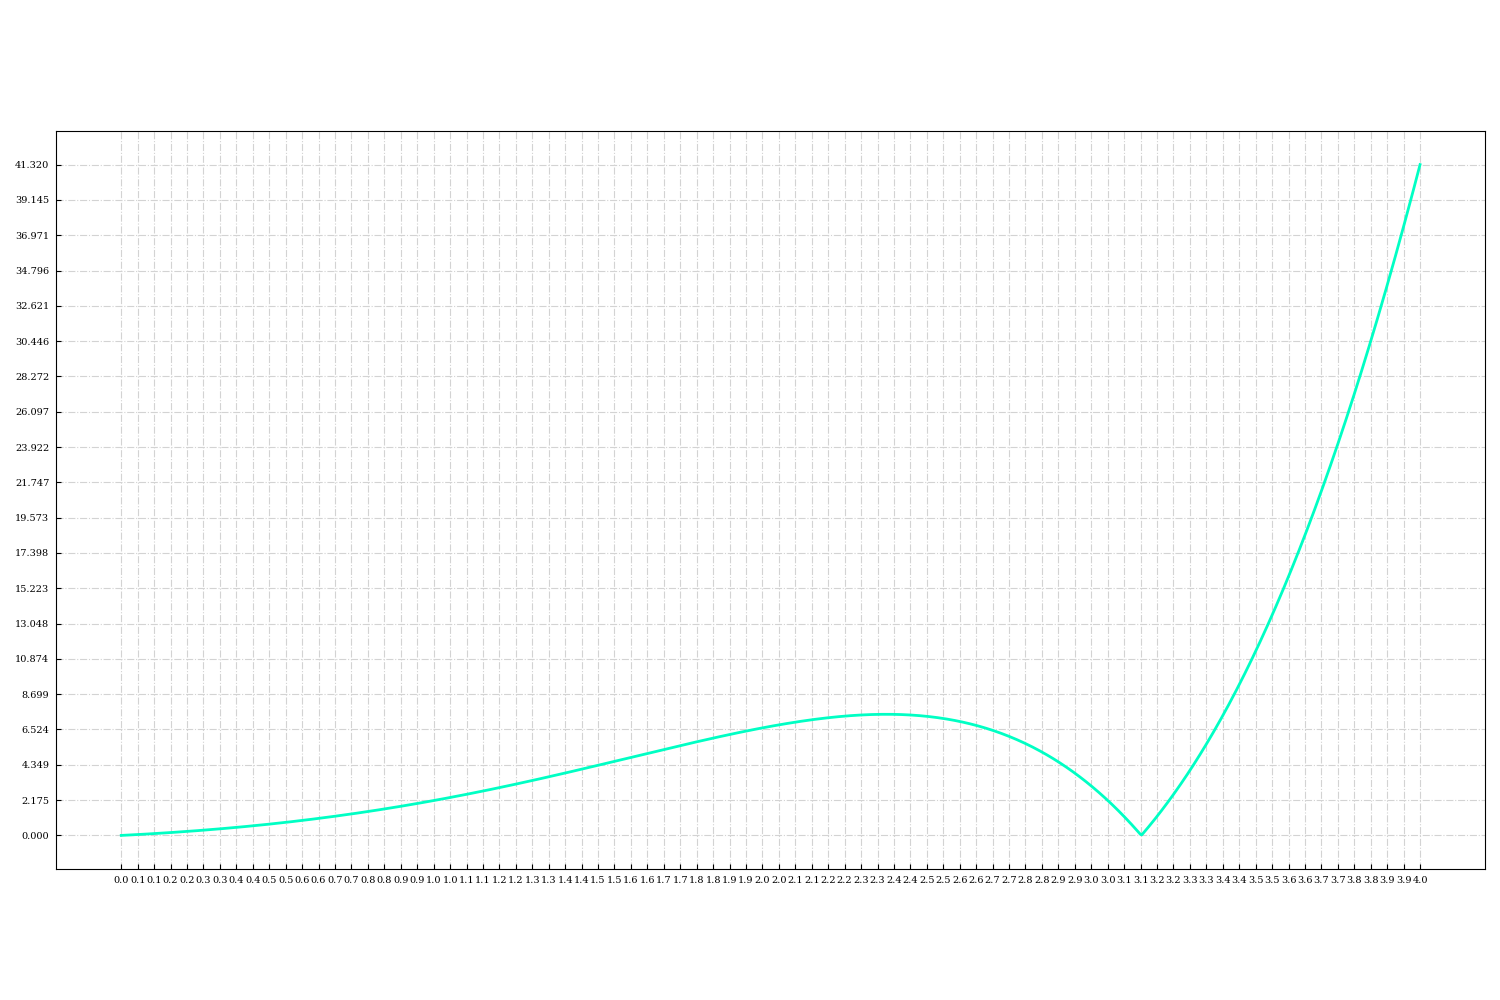
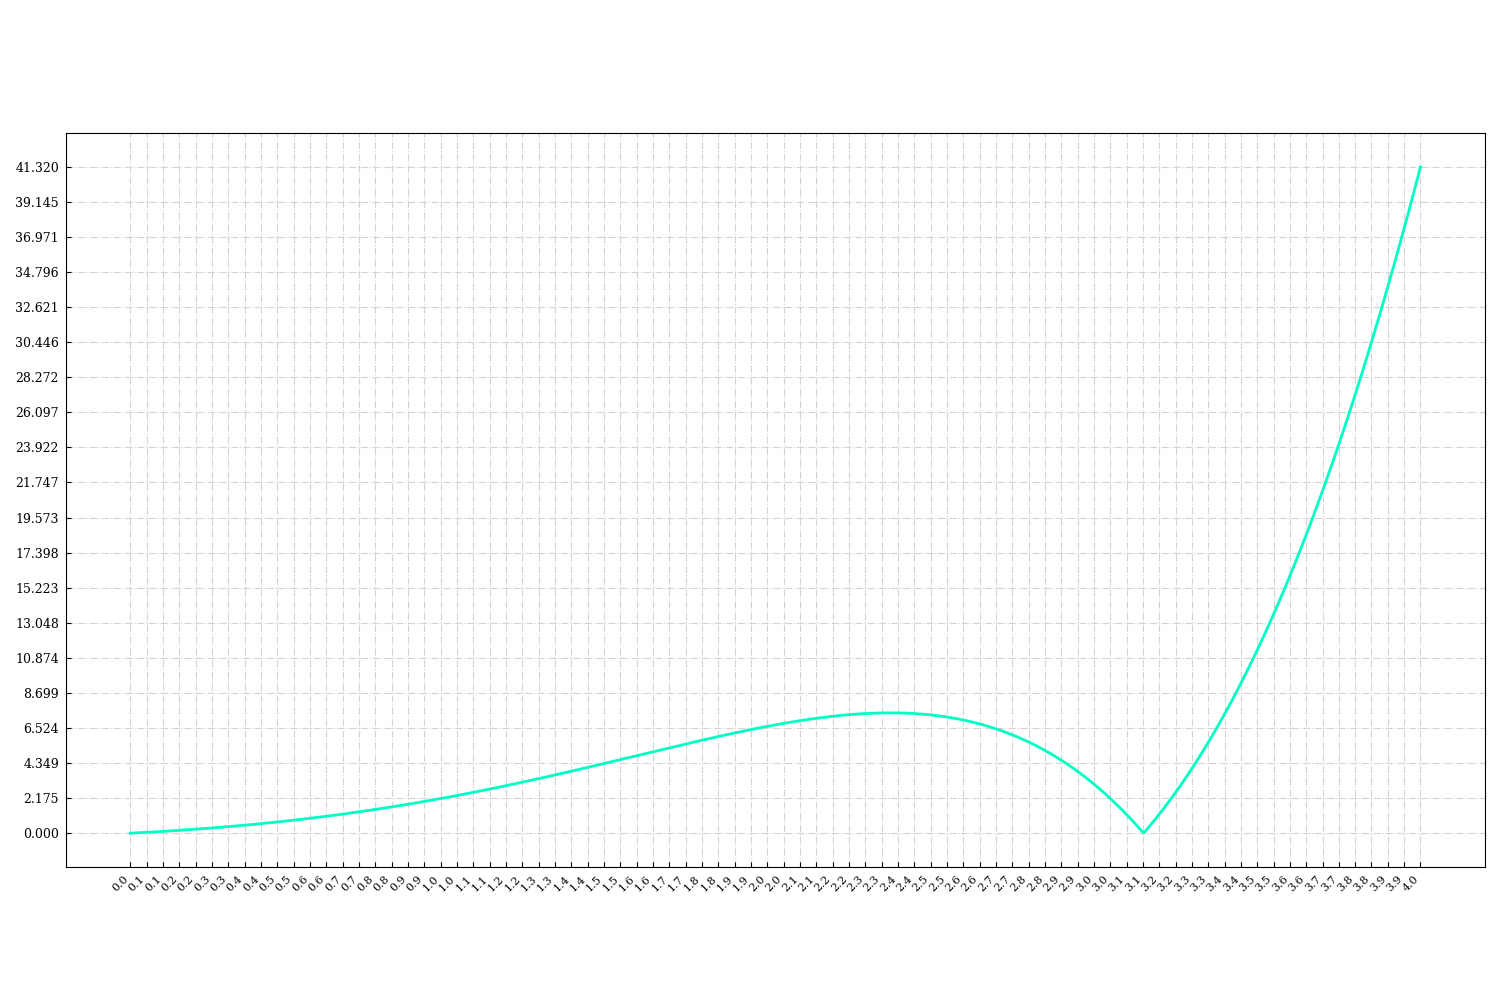
Preset bug fixes

diff --git a/mpl_plotter/setup.py b/mpl_plotter/setup.py
@@ -20,9 +20,10 @@ class custom_canvas(canvas, attributes):
                  # Backend
                  backend='Qt5Agg',
                  # Fonts
-                 font='serif', math_font="dejavuserif", font_color="black",
+                 font='serif', math_font="dejavuserif", font_color="black", font_size_increase=0,
                  # Figure, axes
-                 fig=None, ax=None, figsize=None, shape_and_position=111, prune=None, resize_axes=True, aspect=None,
+                 fig=None, ax=None, figsize=None, shape_and_position=111, prune=None, resize_axes=True,
+                 scale=None, aspect=1,
                  # Setup
                  workspace_color=None, workspace_color2=None,
                  background_color_figure='white', background_color_plot='white', background_alpha=1,
@@ -53,7 +54,7 @@ class custom_canvas(canvas, attributes):
                  tick_color=None, tick_label_pad=5,
                  ticks_where=(1, 1, 0, 0),
                  # Tick labels
-                 tick_label_size=None, x_tick_label_size=None, y_tick_label_size=None,
+                 tick_label_size=10, x_tick_label_size=None, y_tick_label_size=None,
                  x_custom_tick_locations=None, y_custom_tick_locations=None, fine_tick_locations=True,
                  x_custom_tick_labels=None, y_custom_tick_labels=None,
                  x_date_tick_labels=False, date_format='%Y-%m-%d',
@@ -69,6 +70,7 @@ class custom_canvas(canvas, attributes):
                  cb_vmin=None, cb_vmax=None, cb_hard_bounds=False, cb_outline_width=None,
                  cb_tick_number=5, cb_ticklabelsize=10, tick_ndecimals_cb=None,
                  # Legend
+                 plot_label=None,
                  legend=False, legend_loc='upper right', legend_bbox_to_anchor=None,
                  legend_size=13, legend_weight='normal',
                  legend_style='normal', legend_handleheight=None, legend_ncol=1,

diff --git a/mpl_plotter/two_d.py b/mpl_plotter/two_d.py
@@ -246,8 +246,7 @@ class attributes:
 
             if not isinstance(self.scale, type(None)):
                 self.ax.set_aspect(self.scale)
-
-            if not isinstance(self.aspect, type(None)):
+            elif not isinstance(self.aspect, type(None)):
                 if self.y.ndim == 1 and self.x.ndim == 1:
                     y_range = span(self.y)
                     x_range = span(self.x)
@@ -359,10 +358,12 @@ class attributes:
         #   Label size
         if not isinstance(self.x_tick_label_size, type(None)):
             self.ax.tick_params(axis='x', labelsize=self.x_tick_label_size+self.font_size_increase)
+        elif not isinstance(self.tick_label_size, type(None)):
+            self.ax.tick_params(axis='x', labelsize=self.tick_label_size+self.font_size_increase)
         if not isinstance(self.y_tick_label_size, type(None)):
             self.ax.tick_params(axis='y', labelsize=self.y_tick_label_size+self.font_size_increase)
-        if not isinstance(self.tick_label_size, type(None)):
-            self.ax.tick_params(axis='both', labelsize=self.tick_label_size+self.font_size_increase)
+        elif not isinstance(self.tick_label_size, type(None)):
+            self.ax.tick_params(axis='y', labelsize=self.tick_label_size+self.font_size_increase)
         #   Number and custom position ---------------------------------------------------------------------------------
         if not isinstance(self.x_tick_number, type(None)):
             self.ax.set_xticks(np.linspace(

diff --git a/tests/test_preset_premade.py b/tests/test_preset_premade.py
@@ -1,9 +1,6 @@
 import unittest
 import numpy as np
 
-from mpl_plotter.presets.publication import two_d
-from mpl_plotter.presets.precision import two_d as two_d_precision
-
 from mpl_plotter.color.schemes import one
 
 
@@ -15,9 +12,9 @@ z = abs(np.sin(x) * np.exp(x))
 class Tests(unittest.TestCase):
 
     def test_publication(self):
-
-        two_d.line(x, z, aspect=0.05, color=one()[-2], show=True)
+        from mpl_plotter.presets.publication import two_d
+        two_d.line(x, z, scale=1/20, color=one()[5], show=True)
 
     def test_precision(self):
-
-        two_d_precision.line(x, z, aspect=0.05, color=one()[-2], show=True)
+        from mpl_plotter.presets.precision import two_d as two_d_precision
+        two_d_precision.line(x, z, scale=1/20, color=one()[5], show=True)

diff --git a/mpl_plotter/presets/standard/precision.py b/mpl_plotter/presets/standard/precision.py
@@ -78,8 +78,8 @@ preset = {
 #"ticks_where" : (1, 1, 0, 0),
 ## Tick labels
 #"tick_label_size" : None,
-"x_tick_label_size" : 7,
-"y_tick_label_size" : 7,
+"x_tick_label_size" : 8,
+"y_tick_label_size" : 9,
 #"x_custom_tick_locations" : None,
 #"y_custom_tick_locations" : None,
 "fine_tick_locations" : True,
@@ -90,7 +90,7 @@ preset = {
 #"tick_ndecimals" : 1,
 #"x_tick_ndecimals" : None,
 "y_tick_ndecimals" : 3,
-#"x_tick_rotation" : None,
+"x_tick_rotation" : 45,
 #"y_tick_rotation" : None,
 #"tick_labels_where" : (1, 1, 0, 0),
 ## Color bar

diff --git a/tests/tests_integration.py b/tests/tests_integration.py
@@ -54,7 +54,7 @@ class Tests(unittest.TestCase):
                 azim=-160,
                 elev=43)
         fill_area(fig=fig, ax=ax2,
-                  plot_label="Fill", aspect=12, grid=False)
+                  plot_label="Fill", aspect=1, grid=False)
         quiver(fig=fig, ax=ax3,
                plot_label="Quiver", grid=False)
         heatmap(fig=fig, ax=ax4,

diff --git a/setup.py b/setup.py
@@ -5,7 +5,7 @@ with open("README.md", "r") as fh:
 
 setuptools.setup(
     name="mpl_plotter",
-    version="3.8.3",
+    version="3.8.4",
     author="Antonio Lopez Rivera",
     author_email="antonlopezr99@gmail.com",
     description="Matplotlib-based plotting library",

diff --git a/mpl_plotter/presets/standard/publication.py b/mpl_plotter/presets/standard/publication.py
@@ -13,7 +13,7 @@ preset = {
 #"shape_and_position" : 111,
 #"prune" : None,
 #"resize_axes" : True,
-#"aspect" : None,
+"aspect" : 1,
 ## Setup
 #"workspace_color" : None,
 #"workspace_color2" : None,
